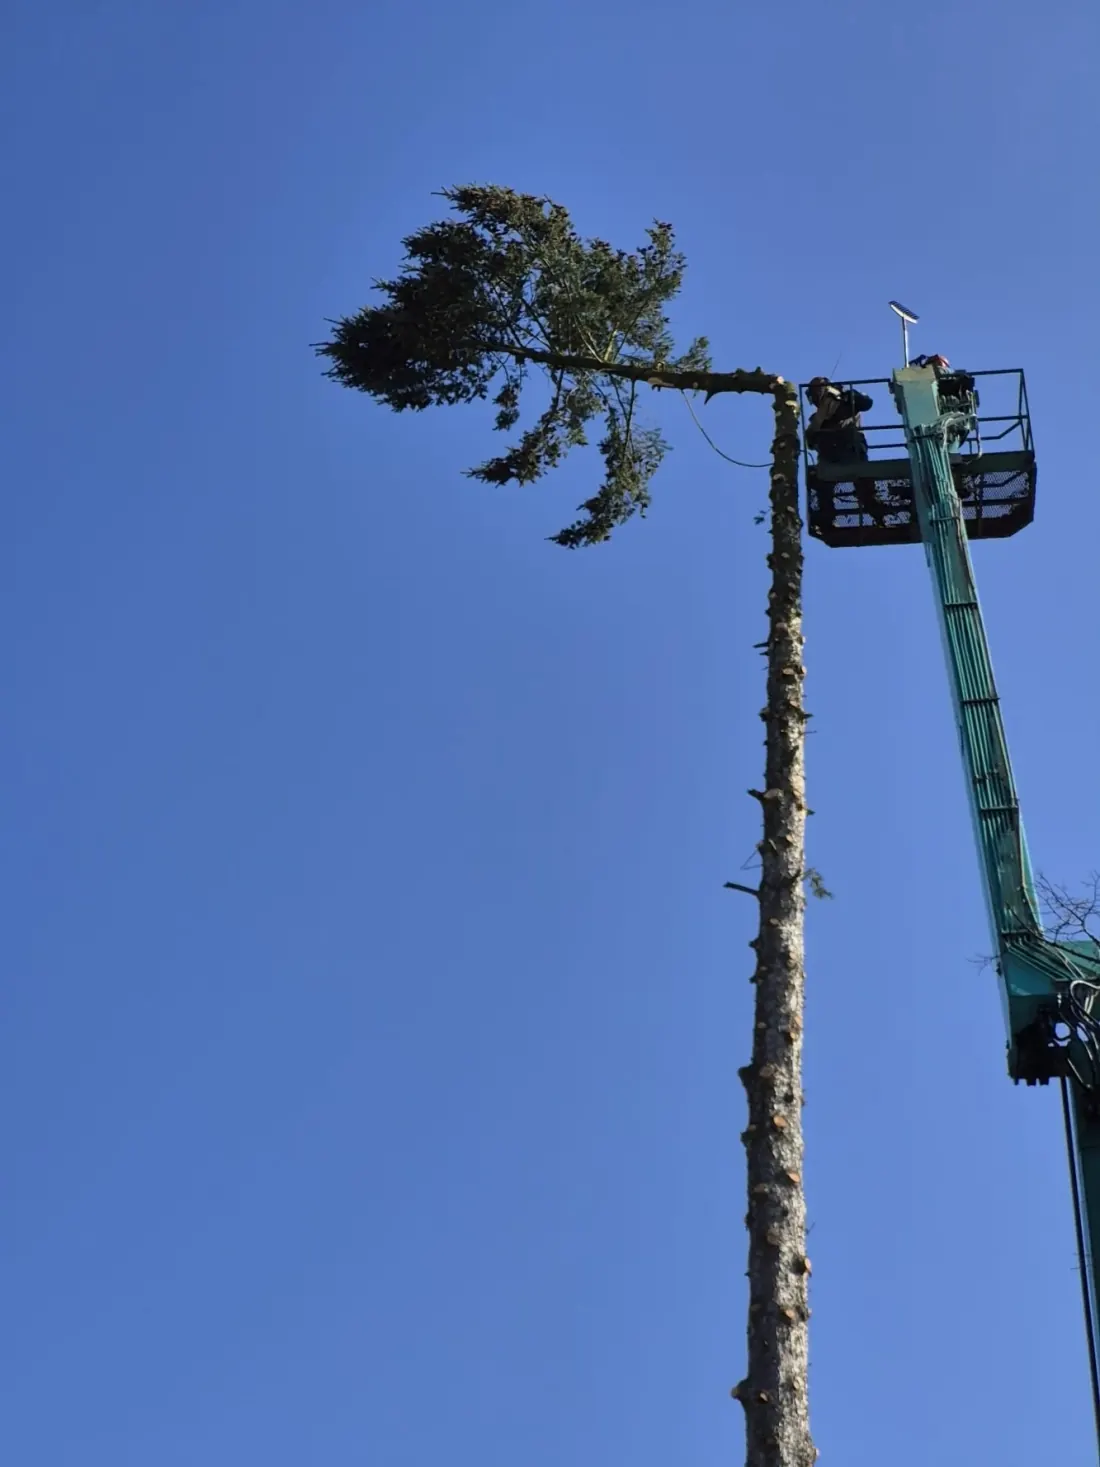
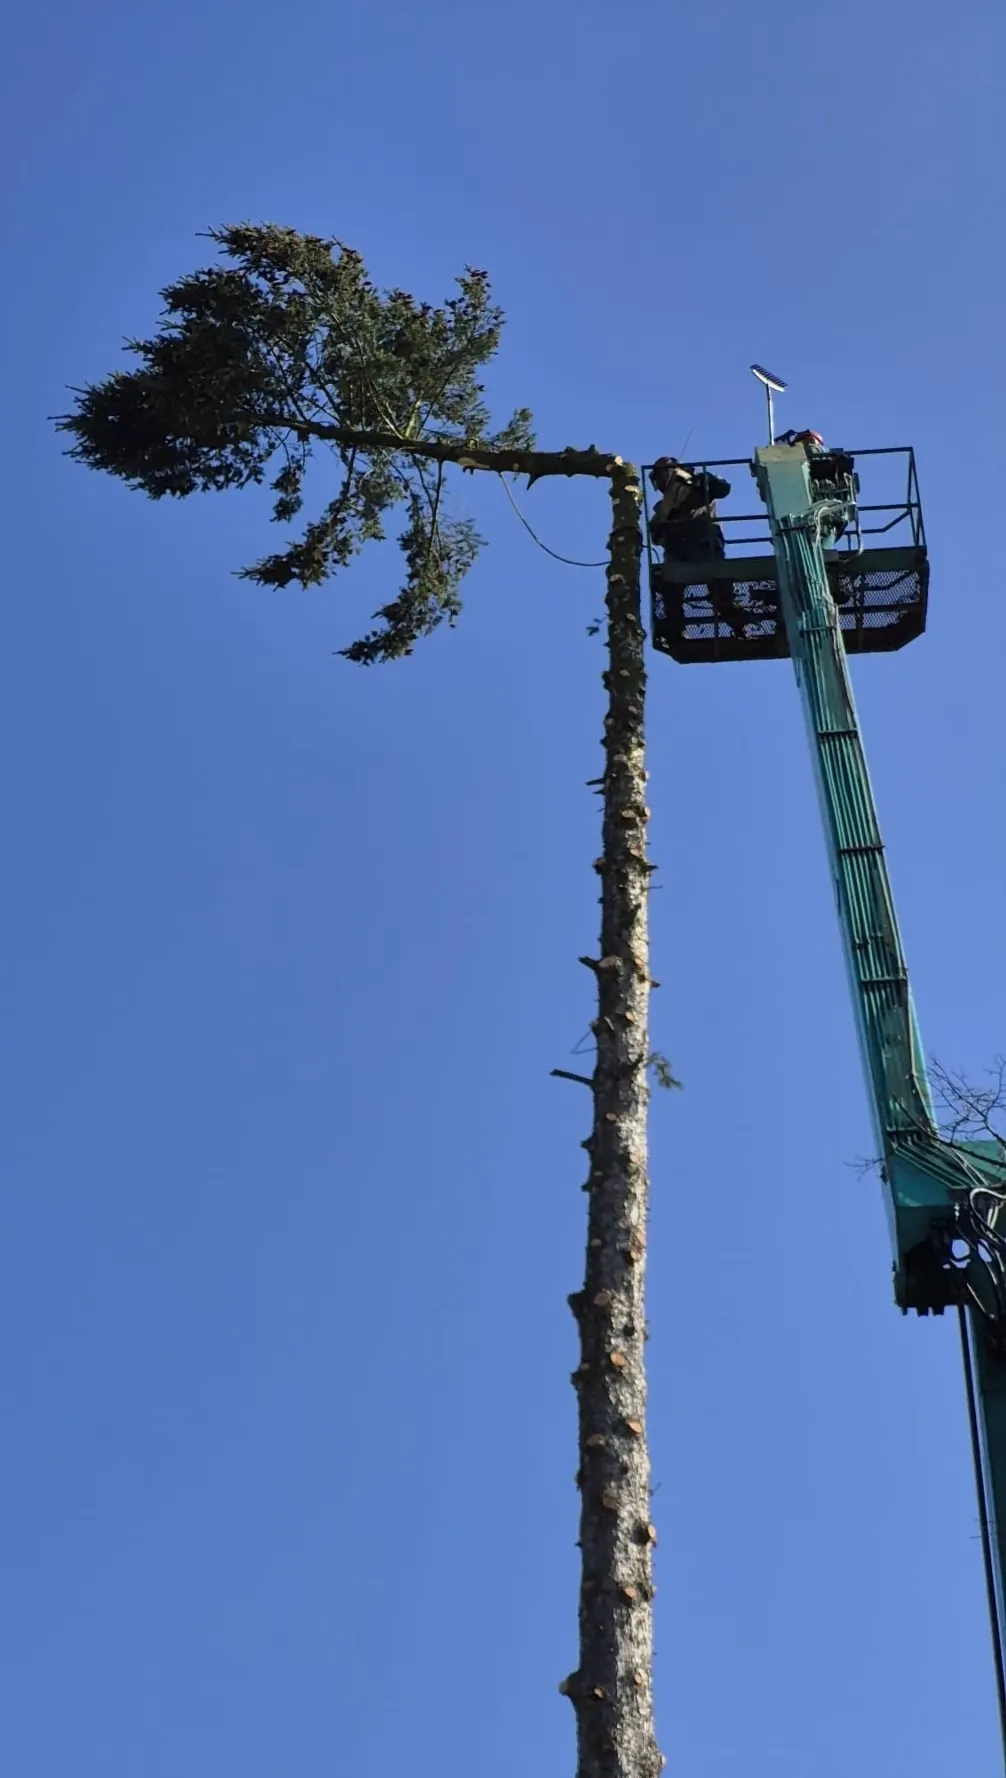
Kácení: první doplňková fotka vycentrovaná na strom s plošinou
Claude-Session: https://claude.ai/code/session_01JuB1H5dWbhBVpcPyXVKVas

Changed region(s): [[0.0616, 0.1227, 1.0, 1.0]]

diff --git a/src/content/content.ts b/src/content/content.ts
@@ -256,7 +256,7 @@ const content = {
       heroImage: '/images/tree_felling_hero.webp',
       heroImageAlt: 'Arborista při prořezávání stromu',
       photos: [
-        { src: '/images/tree_felling_photo_1.webp', position: 'center top' },
+        { src: '/images/tree_felling_photo_1.webp', position: '50% 18%' },
         { src: '/images/tree_felling_photo_2.webp', position: 'center top' },
         { src: '/images/tree_felling_photo_3.webp', position: 'center top' },
       ],
